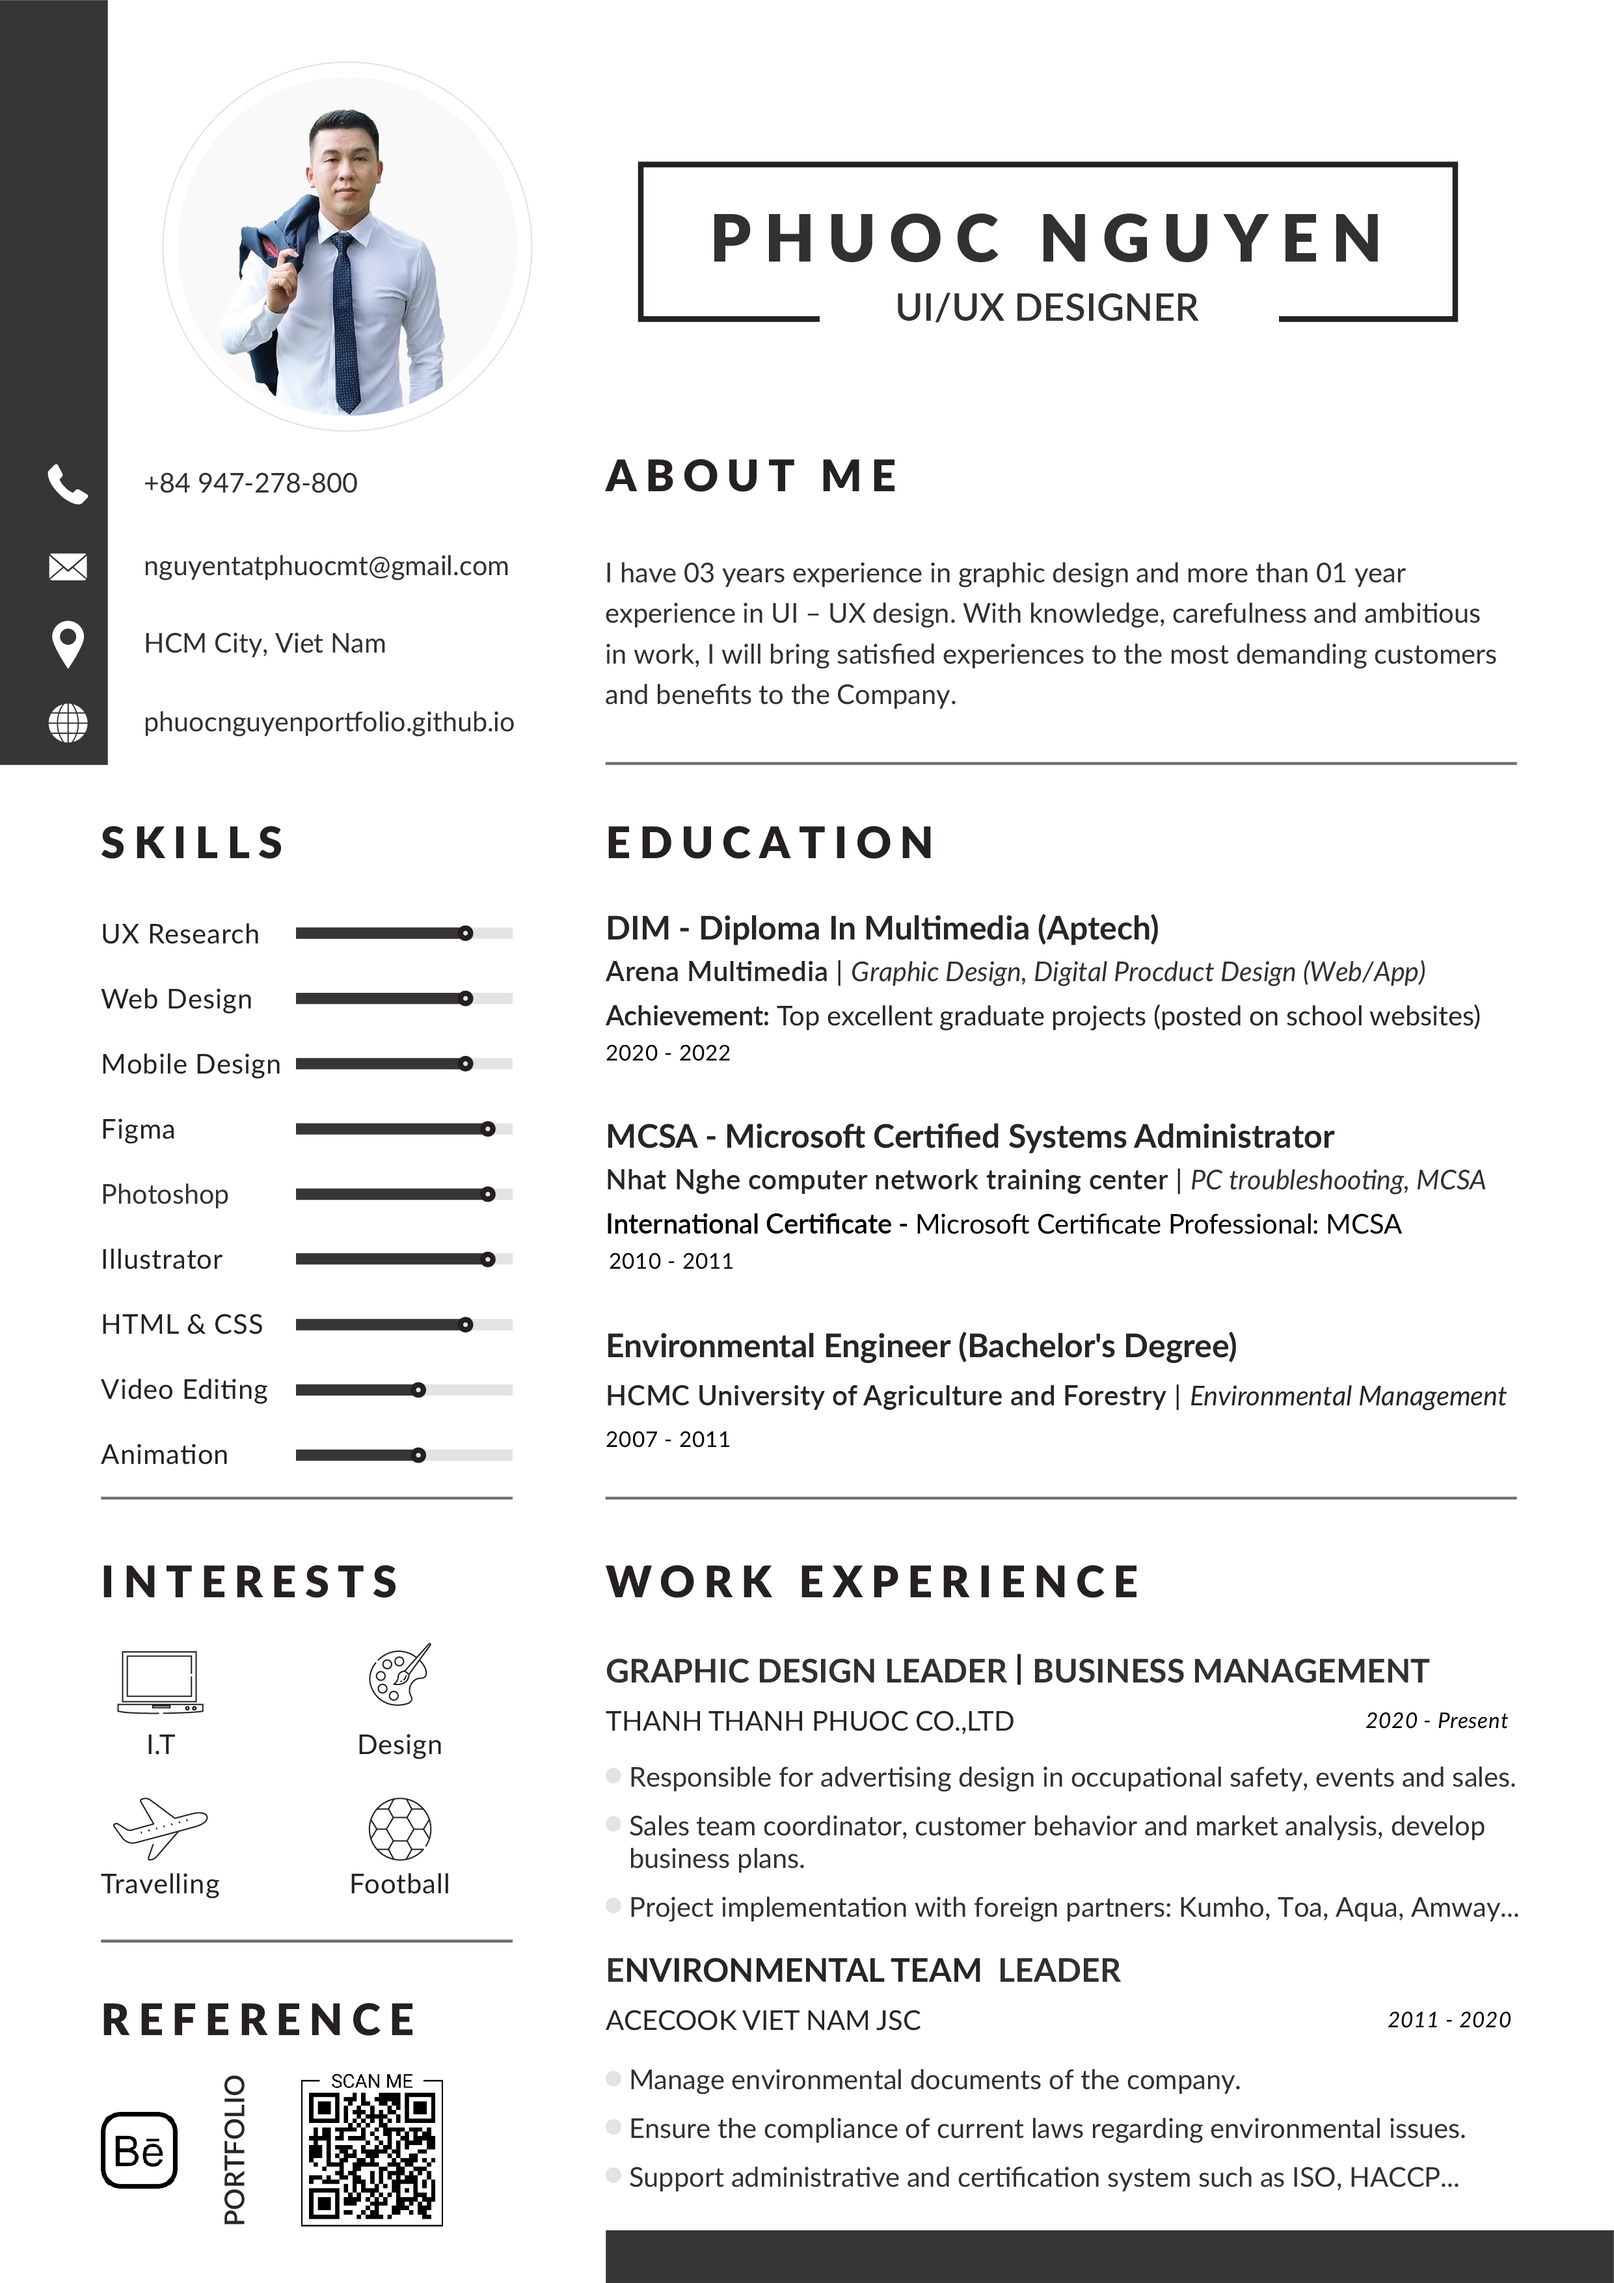
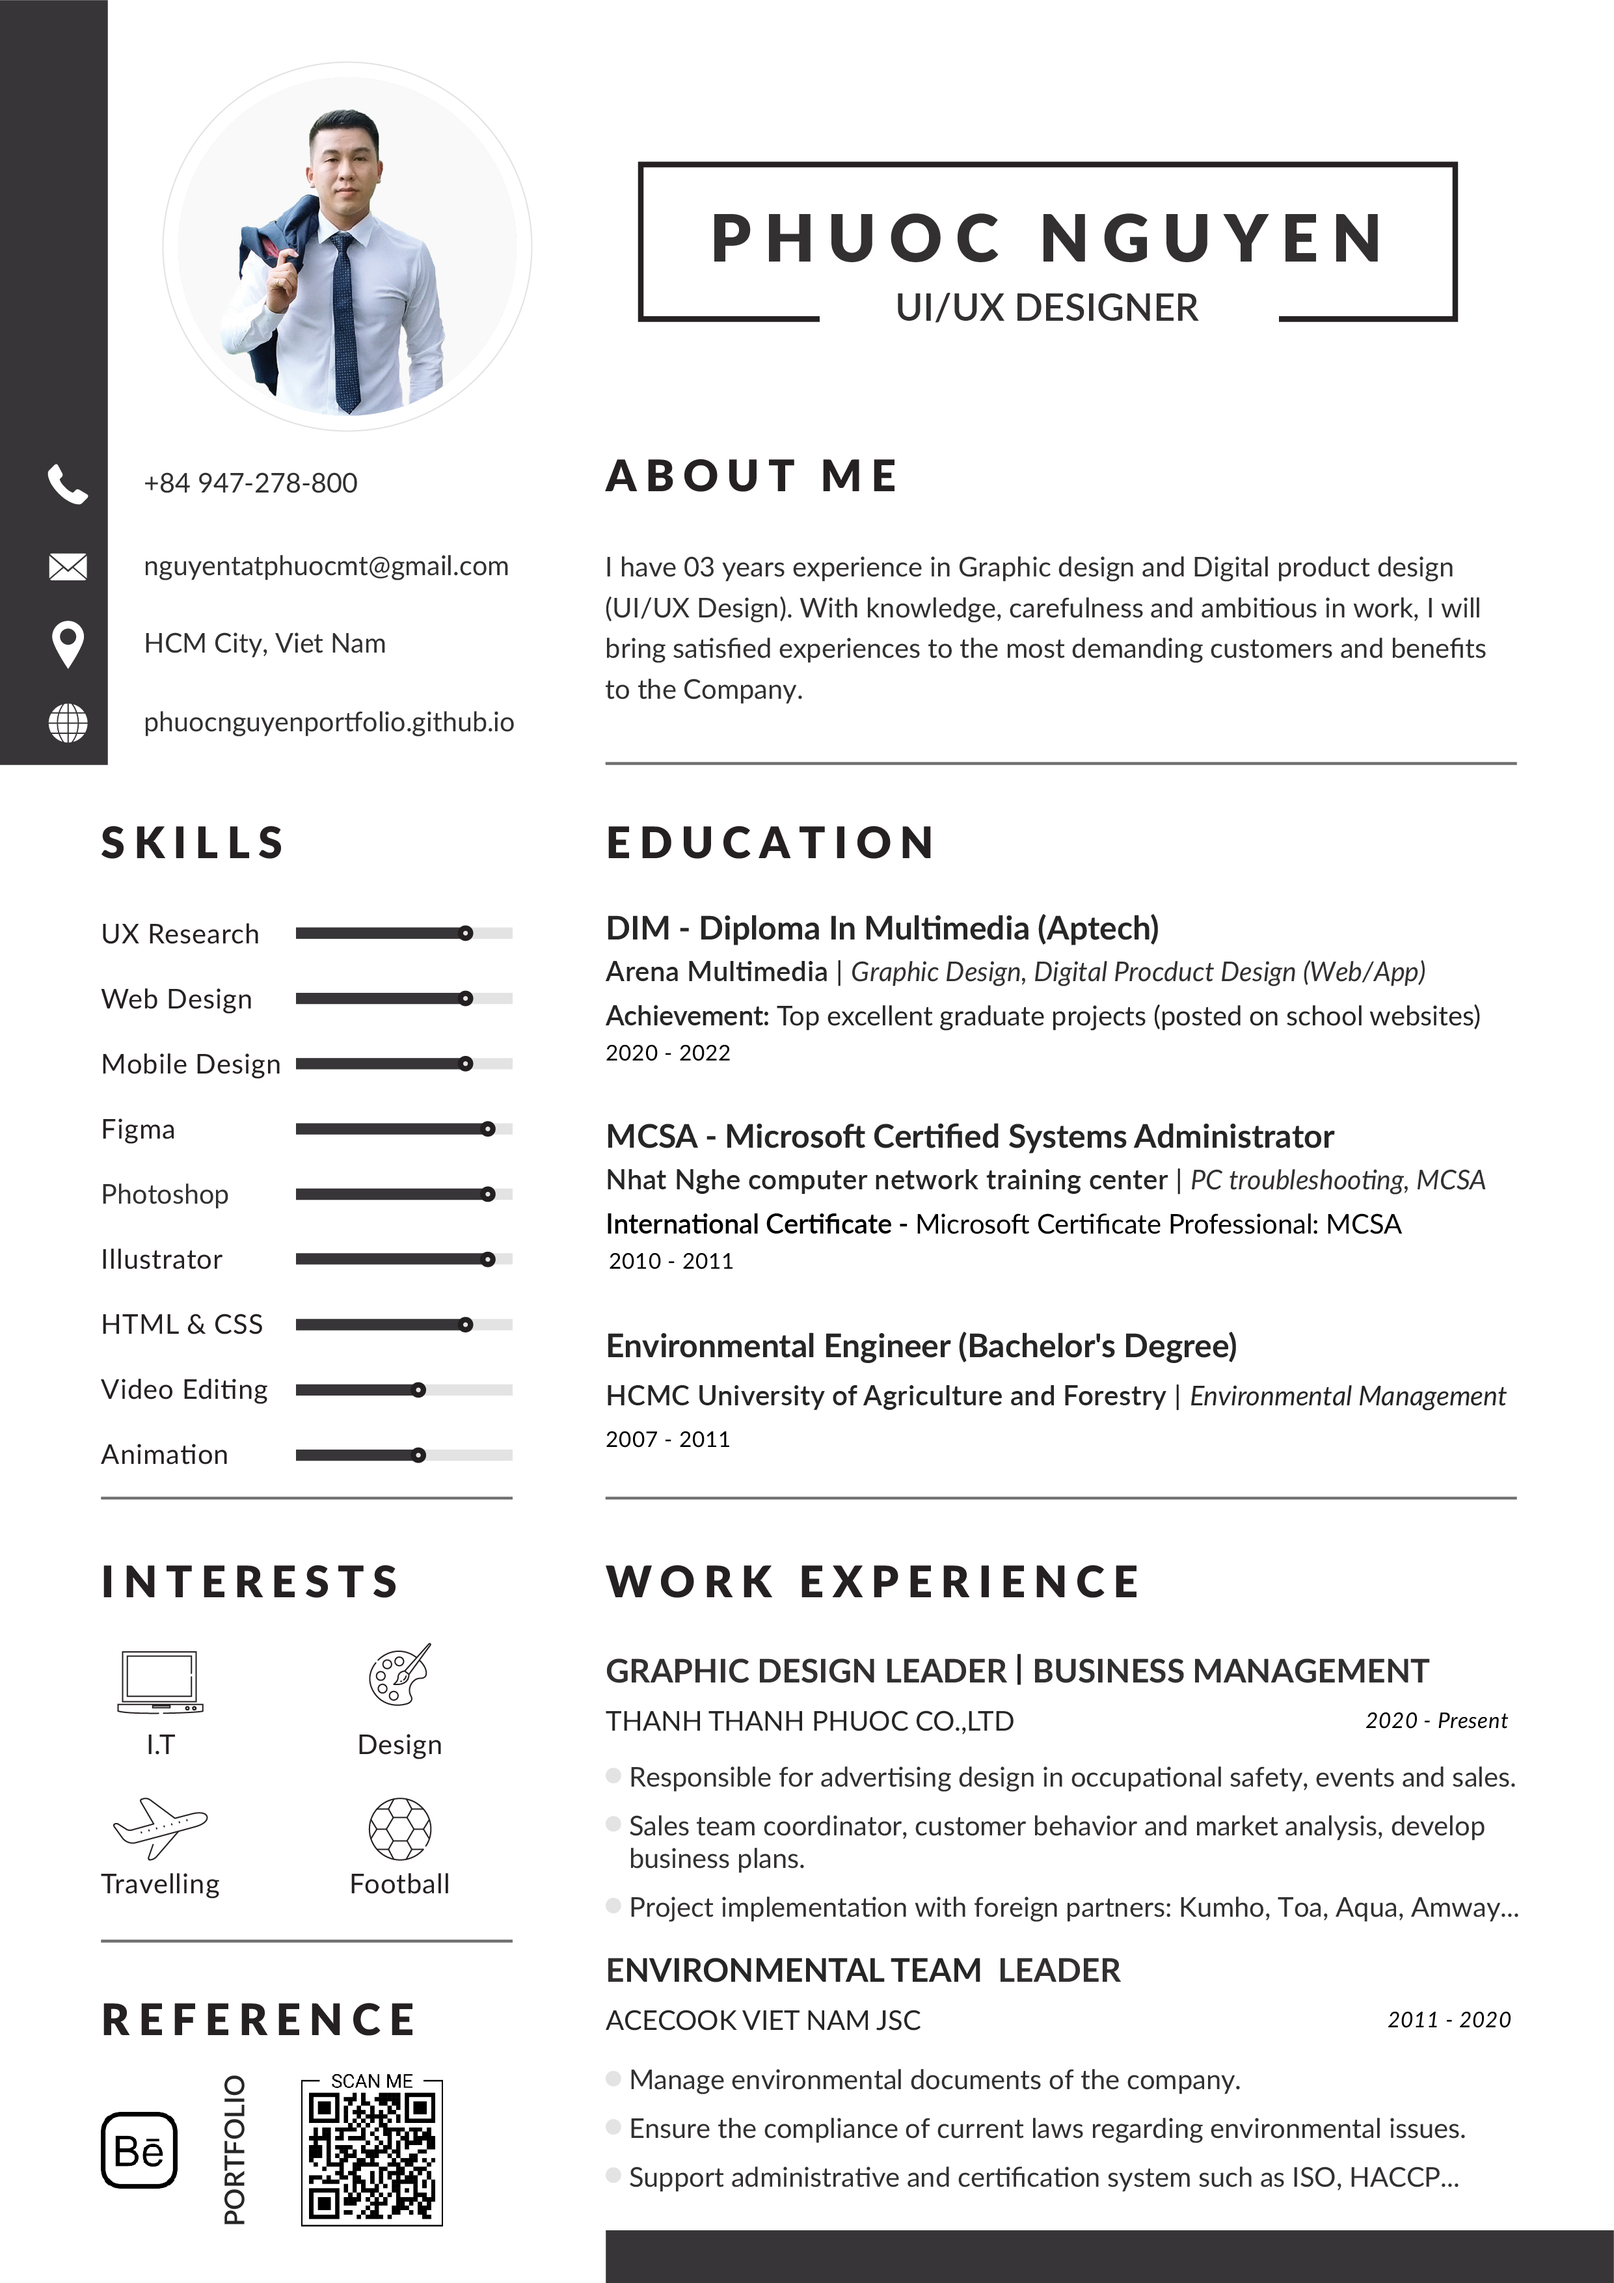
CV Upload_Fn of Fn

Changed region(s): [[0.3724, 0.2485, 0.9311, 0.3106]]

diff --git a/index.html b/index.html
@@ -98,7 +98,7 @@
           <div class="col-lg-8 pt-4 pt-lg-0 content " data-aos="fade-left">
             <h3 class="section-title">UI/UX Designer & Content Creator</h3>
             <p class="section-title">
-              I have 03 years experience in Graphic Design and more than 01 year experience in UI – UX Design. With knowledge, carefulness and ambitious in work, I will bring satisfied experiences to the most demanding customers and benefits to the Company.
+              I have 03 years experience in Graphic design and Digital product design (UI/UX Design). With knowledge, carefulness and ambitious in work, I will bring satisfied experiences to the most demanding customers and benefits to the Company.
             </p>
             <div class="row">
               <div class="col-lg-6">
